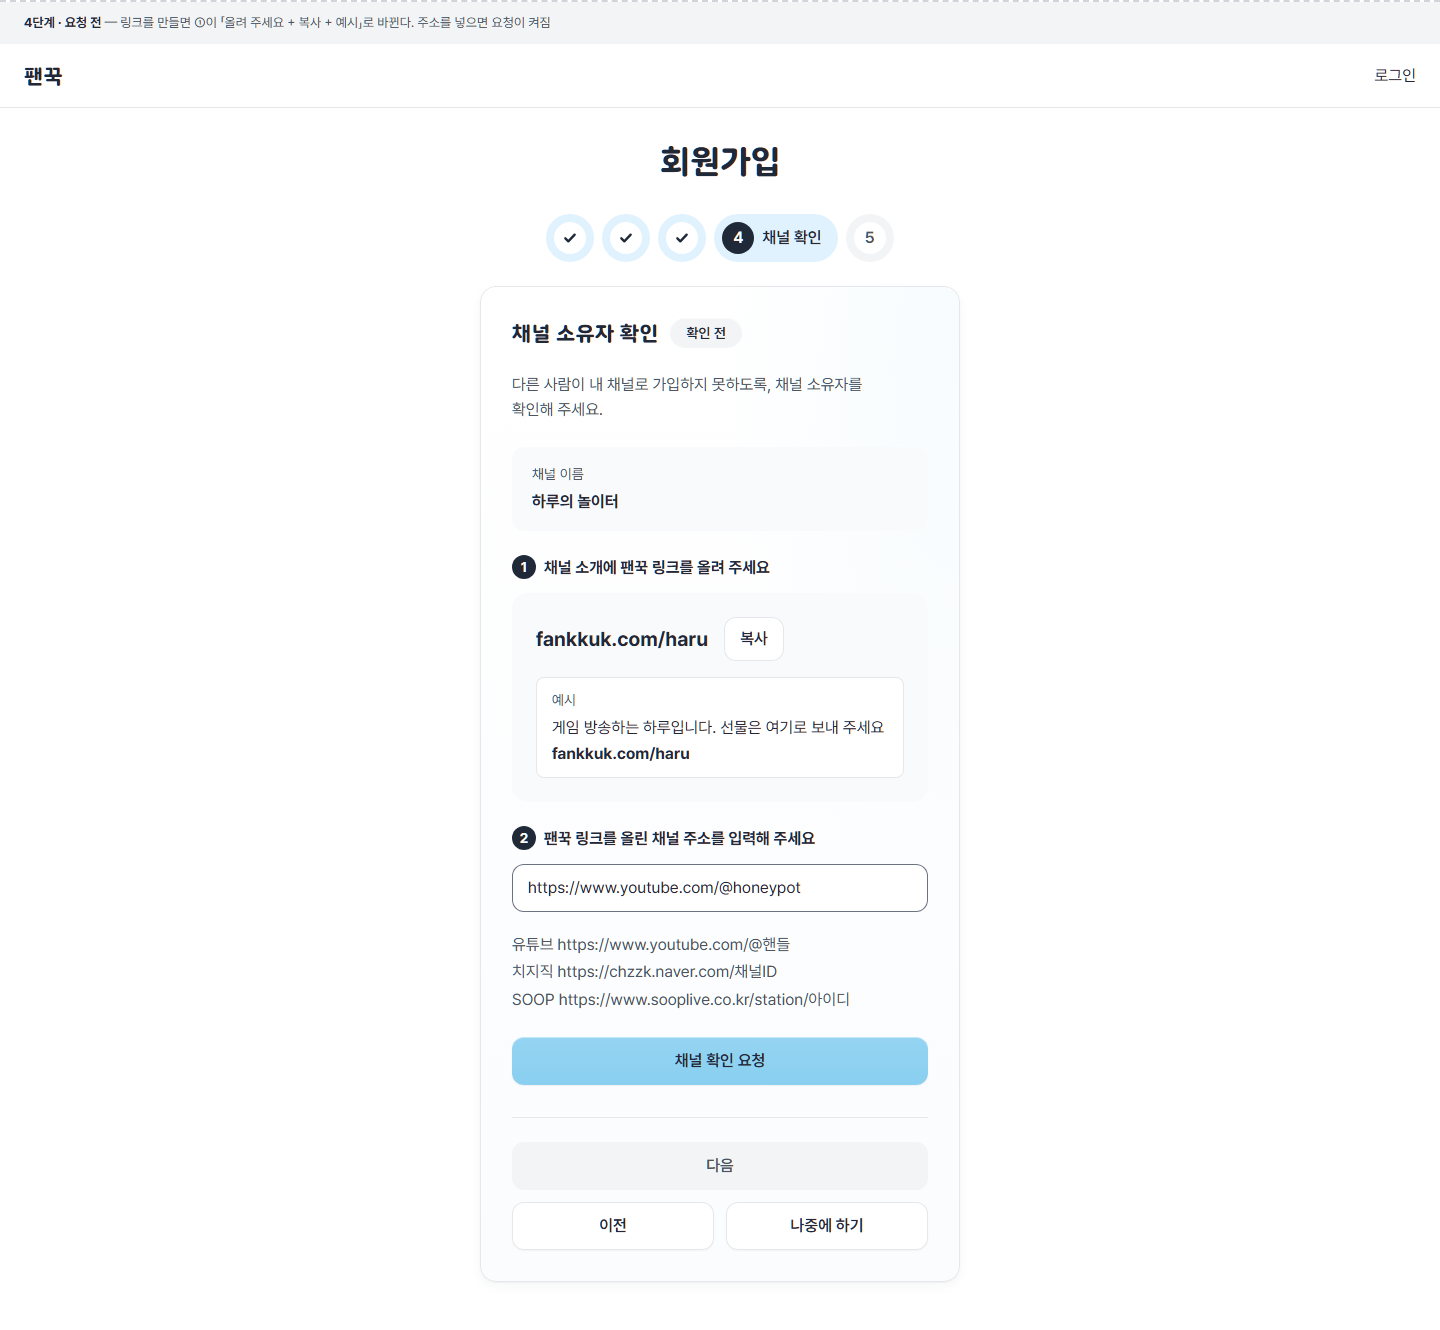
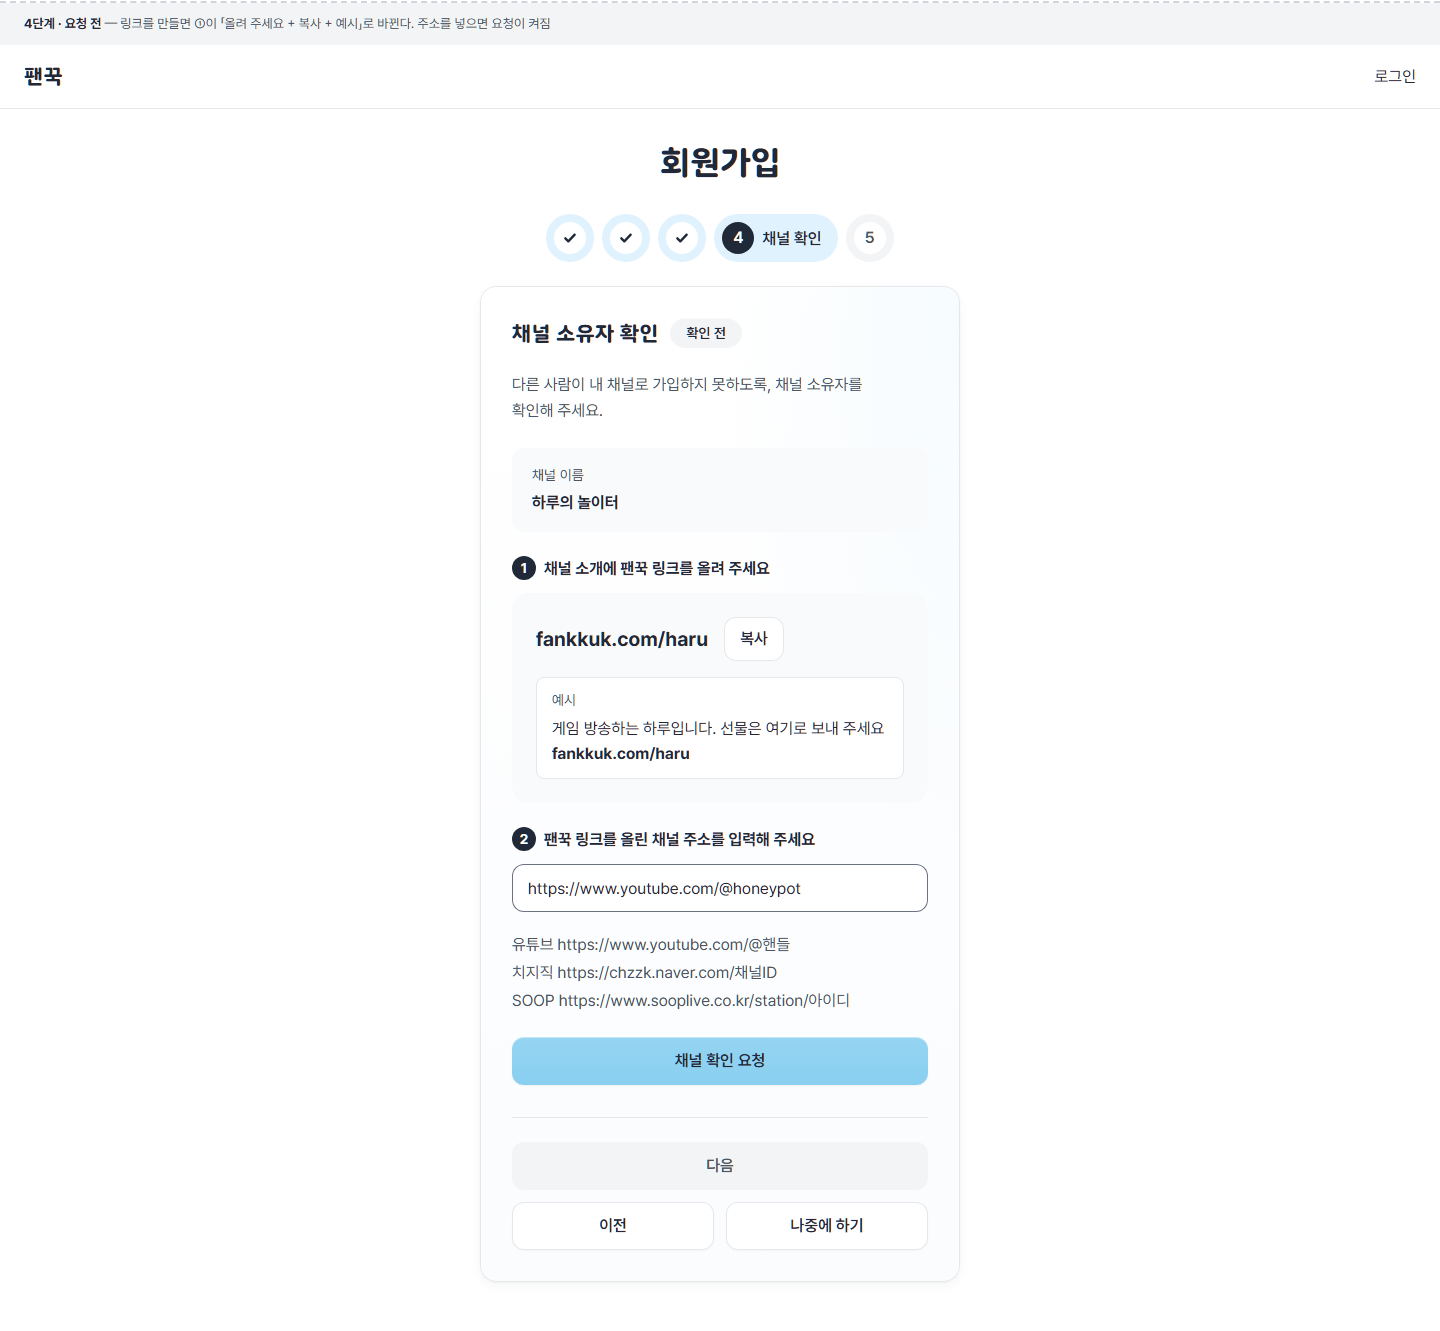
docs(fankkuk): 채널 확인 시안 — 링크 만들기 전에는 ① 하나만

diff --git a/projects/fankkuk/docs/design/mockups/channel-link-verify-20261102/index.html b/projects/fankkuk/docs/design/mockups/channel-link-verify-20261102/index.html
@@ -12,7 +12,7 @@
 <h3 class="t-card" style="margin:32px 0 16px">채널 정보</h3><div class="form">
 <div><label class="label" for="s2-ch">채널 이름</label><p class="v-desc">방송 플랫폼에 표시된 채널 이름을 그대로 입력해 주세요. 채널 확인 시 일치하는지 확인합니다.</p><input class="field" id="s2-ch" placeholder="예: 꿀단지TV" value="하루의 놀이터"></div>
 <p class="hint" style="margin:0">팬덤 이름·태그는 지금 문구를 유지합니다.</p></div></fieldset><div class="su-step-actions"><button class="btn btn--line" type="button">이전</button><button class="btn su-next" type="submit">다음</button></div></form></div></section></main></section>
-<section class="v-state" id="s4-make"><span class="v-label"><b>4단계 · 링크 만들기 전</b> — ① 팬꾹 링크를 여기서 만든다(누르면 「만든 뒤 30일 동안 변경할 수 없습니다」 확인 창). 만들기 전에는 ②·요청이 꺼짐</span><div class="v-bar"><b>팬꾹</b><span>로그인</span></div><main><section class="su-page"><div class="container auth su-box"><div class="head"><h1 class="t-title">회원가입</h1></div><nav class="su-steps-wrap" aria-label="가입 단계"><ol class="su-steps su-four"><li><span class="su-st is-done"><span class="su-dot" aria-hidden="true"><svg width="16" height="16" viewBox="0 0 24 24" aria-hidden="true"><path d="m5 12.5 4.5 4.5L19 7" fill="none" stroke="currentColor" stroke-width="3.5" stroke-linecap="round" stroke-linejoin="round"/></svg></span><span class="su-lbl">유형 선택</span></span></li><li><span class="su-st is-done"><span class="su-dot" aria-hidden="true"><svg width="16" height="16" viewBox="0 0 24 24" aria-hidden="true"><path d="m5 12.5 4.5 4.5L19 7" fill="none" stroke="currentColor" stroke-width="3.5" stroke-linecap="round" stroke-linejoin="round"/></svg></span><span class="su-lbl">정보 입력</span></span></li><li><span class="su-st is-done"><span class="su-dot" aria-hidden="true"><svg width="16" height="16" viewBox="0 0 24 24" aria-hidden="true"><path d="m5 12.5 4.5 4.5L19 7" fill="none" stroke="currentColor" stroke-width="3.5" stroke-linecap="round" stroke-linejoin="round"/></svg></span><span class="su-lbl">휴대폰 확인</span></span></li><li><span class="su-st" aria-current="step"><span class="su-dot" aria-hidden="true">4</span><span class="su-lbl">채널 확인</span></span></li><li><span class="su-st"><span class="su-dot" aria-hidden="true">5</span><span class="su-lbl">승인 서명</span></span></li></ol></nav><form class="card" onsubmit="return false"><fieldset class="su-step"><legend class="sr-only">채널 소유자 확인</legend><div class="vp-head"><h2 class="t-card">채널 소유자 확인</h2><span class="tag ">확인 전</span></div><p class="sub su-lead">다른 사람이 내 채널로 가입하지 못하도록, 채널 소유자를 확인해 주세요.</p><div class="vp-kv v-name"><span class="k">채널 이름</span><strong>하루의 놀이터</strong></div><div class="v-step"><label class="vp-label" for="lk"><span class="v-no">1</span>팬꾹 링크를 만들어 주세요</label><p class="v-desc">외부에서 크리에이터님의 팬꾹으로 안내할 때 사용할 주소입니다.</p><div class="vp-handle"><span class="pre">fankkuk.com/</span><input class="field" id="lk" placeholder="haru"><button class="btn btn--sm" type="button">만들기</button></div><p class="hint">로그인 아이디와 다르게 정해 주세요. 만든 뒤 30일 동안은 변경할 수 없습니다.</p></div><div class="v-step"><label class="vp-label" for="a1"><span class="v-no">2</span>팬꾹 링크를 올린 채널 주소를 입력해 주세요</label><input class="field" id="a1" inputmode="url" placeholder="https://www.youtube.com/@핸들" value="" disabled><ul class="vp-examples"><li>유튜브 <code>https://www.youtube.com/@핸들</code></li><li>치지직 <code>https://chzzk.naver.com/채널ID</code></li><li>SOOP <code>https://www.sooplive.co.kr/station/아이디</code></li></ul></div><div class="vp-steps"><button class="btn" type="button" aria-disabled="true">채널 확인 요청</button></div></fieldset><div class="v-kakao-actions v-three"><button class="btn btn--line" type="button">이전</button><button class="btn btn--line" type="button">나중에 하기</button><button class="btn su-next v-main" type="submit" aria-disabled="true">다음</button></div></form></div></section></main></section>
+<section class="v-state" id="s4-make"><span class="v-label"><b>4단계 · 링크 만들기 전</b> — ① 팬꾹 링크를 여기서 만든다(누르면 「만든 뒤 30일 동안 변경할 수 없습니다」 확인 창). 링크를 만들기 전에는 ① 하나만 보인다. 만들면 「요청 전」 화면처럼 ①이 올리기 안내로 바뀌고 ②·요청이 나타난다</span><div class="v-bar"><b>팬꾹</b><span>로그인</span></div><main><section class="su-page"><div class="container auth su-box"><div class="head"><h1 class="t-title">회원가입</h1></div><nav class="su-steps-wrap" aria-label="가입 단계"><ol class="su-steps su-four"><li><span class="su-st is-done"><span class="su-dot" aria-hidden="true"><svg width="16" height="16" viewBox="0 0 24 24" aria-hidden="true"><path d="m5 12.5 4.5 4.5L19 7" fill="none" stroke="currentColor" stroke-width="3.5" stroke-linecap="round" stroke-linejoin="round"/></svg></span><span class="su-lbl">유형 선택</span></span></li><li><span class="su-st is-done"><span class="su-dot" aria-hidden="true"><svg width="16" height="16" viewBox="0 0 24 24" aria-hidden="true"><path d="m5 12.5 4.5 4.5L19 7" fill="none" stroke="currentColor" stroke-width="3.5" stroke-linecap="round" stroke-linejoin="round"/></svg></span><span class="su-lbl">정보 입력</span></span></li><li><span class="su-st is-done"><span class="su-dot" aria-hidden="true"><svg width="16" height="16" viewBox="0 0 24 24" aria-hidden="true"><path d="m5 12.5 4.5 4.5L19 7" fill="none" stroke="currentColor" stroke-width="3.5" stroke-linecap="round" stroke-linejoin="round"/></svg></span><span class="su-lbl">휴대폰 확인</span></span></li><li><span class="su-st" aria-current="step"><span class="su-dot" aria-hidden="true">4</span><span class="su-lbl">채널 확인</span></span></li><li><span class="su-st"><span class="su-dot" aria-hidden="true">5</span><span class="su-lbl">승인 서명</span></span></li></ol></nav><form class="card" onsubmit="return false"><fieldset class="su-step"><legend class="sr-only">채널 소유자 확인</legend><div class="vp-head"><h2 class="t-card">채널 소유자 확인</h2><span class="tag ">확인 전</span></div><p class="sub su-lead">다른 사람이 내 채널로 가입하지 못하도록, 채널 소유자를 확인해 주세요.</p><div class="vp-kv v-name"><span class="k">채널 이름</span><strong>하루의 놀이터</strong></div><div class="v-step"><label class="vp-label" for="lk"><span class="v-no">1</span>팬꾹 링크를 만들어 주세요</label><p class="v-desc">외부에서 크리에이터님의 팬꾹으로 안내할 때 사용할 주소입니다.</p><div class="vp-handle"><span class="pre">fankkuk.com/</span><input class="field" id="lk" placeholder="haru"><button class="btn btn--sm" type="button">만들기</button></div><p class="hint">로그인 아이디와 다르게 정해 주세요. 만든 뒤 30일 동안은 변경할 수 없습니다.</p></div></fieldset><div class="v-kakao-actions v-three"><button class="btn btn--line" type="button">이전</button><button class="btn btn--line" type="button">나중에 하기</button><button class="btn su-next v-main" type="submit" aria-disabled="true">다음</button></div></form></div></section></main></section>
 <section class="v-state" id="s4-ready"><span class="v-label"><b>4단계 · 요청 전</b> — 링크를 만들면 ①이 「올려 주세요 + 복사 + 예시」로 바뀐다. 주소를 넣으면 요청이 켜짐</span><div class="v-bar"><b>팬꾹</b><span>로그인</span></div><main><section class="su-page"><div class="container auth su-box"><div class="head"><h1 class="t-title">회원가입</h1></div><nav class="su-steps-wrap" aria-label="가입 단계"><ol class="su-steps su-four"><li><span class="su-st is-done"><span class="su-dot" aria-hidden="true"><svg width="16" height="16" viewBox="0 0 24 24" aria-hidden="true"><path d="m5 12.5 4.5 4.5L19 7" fill="none" stroke="currentColor" stroke-width="3.5" stroke-linecap="round" stroke-linejoin="round"/></svg></span><span class="su-lbl">유형 선택</span></span></li><li><span class="su-st is-done"><span class="su-dot" aria-hidden="true"><svg width="16" height="16" viewBox="0 0 24 24" aria-hidden="true"><path d="m5 12.5 4.5 4.5L19 7" fill="none" stroke="currentColor" stroke-width="3.5" stroke-linecap="round" stroke-linejoin="round"/></svg></span><span class="su-lbl">정보 입력</span></span></li><li><span class="su-st is-done"><span class="su-dot" aria-hidden="true"><svg width="16" height="16" viewBox="0 0 24 24" aria-hidden="true"><path d="m5 12.5 4.5 4.5L19 7" fill="none" stroke="currentColor" stroke-width="3.5" stroke-linecap="round" stroke-linejoin="round"/></svg></span><span class="su-lbl">휴대폰 확인</span></span></li><li><span class="su-st" aria-current="step"><span class="su-dot" aria-hidden="true">4</span><span class="su-lbl">채널 확인</span></span></li><li><span class="su-st"><span class="su-dot" aria-hidden="true">5</span><span class="su-lbl">승인 서명</span></span></li></ol></nav><form class="card" onsubmit="return false"><fieldset class="su-step"><legend class="sr-only">채널 소유자 확인</legend><div class="vp-head"><h2 class="t-card">채널 소유자 확인</h2><span class="tag ">확인 전</span></div><p class="sub su-lead">다른 사람이 내 채널로 가입하지 못하도록, 채널 소유자를 확인해 주세요.</p><div class="vp-kv v-name"><span class="k">채널 이름</span><strong>하루의 놀이터</strong></div><div class="v-step"><p class="vp-label"><span class="v-no">1</span>채널 소개에 팬꾹 링크를 올려 주세요</p><div class="vp-box"><div class="vp-code-row"><span class="vp-link">fankkuk.com/haru</span><button class="btn btn--line btn--sm" type="button">복사</button></div><div class="v-example"><span class="k">예시</span><p>게임 방송하는 하루입니다. 선물은 여기로 보내 주세요<br><b>fankkuk.com/haru</b></p></div></div></div><div class="v-step"><label class="vp-label" for="a2"><span class="v-no">2</span>팬꾹 링크를 올린 채널 주소를 입력해 주세요</label><input class="field" id="a2" inputmode="url" placeholder="https://www.youtube.com/@핸들" value="https://www.youtube.com/@honeypot"><ul class="vp-examples"><li>유튜브 <code>https://www.youtube.com/@핸들</code></li><li>치지직 <code>https://chzzk.naver.com/채널ID</code></li><li>SOOP <code>https://www.sooplive.co.kr/station/아이디</code></li></ul></div><div class="vp-steps"><button class="btn" type="button">채널 확인 요청</button></div></fieldset><div class="v-kakao-actions v-three"><button class="btn btn--line" type="button">이전</button><button class="btn btn--line" type="button">나중에 하기</button><button class="btn su-next v-main" type="submit" aria-disabled="true">다음</button></div></form></div></section></main></section>
 <section class="v-state" id="s4-sent"><span class="v-label"><b>4단계 · 요청 완료</b> — 이 단계는 끝. 「이전 | 다음」만, 「다음」 켜짐. 운영자가 확인하면 확인 완료</span><div class="v-bar"><b>팬꾹</b><span>로그인</span></div><main><section class="su-page"><div class="container auth su-box"><div class="head"><h1 class="t-title">회원가입</h1></div><nav class="su-steps-wrap" aria-label="가입 단계"><ol class="su-steps su-four"><li><span class="su-st is-done"><span class="su-dot" aria-hidden="true"><svg width="16" height="16" viewBox="0 0 24 24" aria-hidden="true"><path d="m5 12.5 4.5 4.5L19 7" fill="none" stroke="currentColor" stroke-width="3.5" stroke-linecap="round" stroke-linejoin="round"/></svg></span><span class="su-lbl">유형 선택</span></span></li><li><span class="su-st is-done"><span class="su-dot" aria-hidden="true"><svg width="16" height="16" viewBox="0 0 24 24" aria-hidden="true"><path d="m5 12.5 4.5 4.5L19 7" fill="none" stroke="currentColor" stroke-width="3.5" stroke-linecap="round" stroke-linejoin="round"/></svg></span><span class="su-lbl">정보 입력</span></span></li><li><span class="su-st is-done"><span class="su-dot" aria-hidden="true"><svg width="16" height="16" viewBox="0 0 24 24" aria-hidden="true"><path d="m5 12.5 4.5 4.5L19 7" fill="none" stroke="currentColor" stroke-width="3.5" stroke-linecap="round" stroke-linejoin="round"/></svg></span><span class="su-lbl">휴대폰 확인</span></span></li><li><span class="su-st" aria-current="step"><span class="su-dot" aria-hidden="true">4</span><span class="su-lbl">채널 확인</span></span></li><li><span class="su-st"><span class="su-dot" aria-hidden="true">5</span><span class="su-lbl">승인 서명</span></span></li></ol></nav><form class="card" onsubmit="return false"><fieldset class="su-step"><legend class="sr-only">채널 소유자 확인</legend><div class="vp-head"><h2 class="t-card">채널 소유자 확인</h2><span class="tag tag--warn">확인 대기</span></div><div class="vp-box v-done-box"><p class="vp-label" style="display:flex;align-items:center;gap:6px"><svg width="20" height="20" viewBox="0 0 24 24" aria-hidden="true"><circle cx="12" cy="12" r="10" fill="none" stroke="currentColor" stroke-width="2"/><path d="m7.5 12.5 3 3 6-6.5" fill="none" stroke="currentColor" stroke-width="2.4" stroke-linecap="round" stroke-linejoin="round"/></svg>채널 확인 요청을 보냈습니다</p><p>운영자가 채널을 확인하면 채널 확인이 완료됩니다.</p><div class="vp-kv"><span class="k">채널 이름</span><strong>하루의 놀이터</strong></div><div class="vp-kv"><span class="k">채널 주소</span><strong style="overflow-wrap:anywhere">https://www.youtube.com/@honeypot</strong></div><div class="vp-kv"><span class="k">팬꾹 링크</span><strong>fankkuk.com/haru</strong></div><div><button class="btn btn--text btn--sm" type="button">요청 취소</button></div></div></fieldset><div class="su-step-actions"><button class="btn btn--line" type="button">이전</button><button class="btn su-next" type="submit">다음</button></div></form></div></section></main></section>
 <section class="v-state" id="s4-rejected"><span class="v-label"><b>4단계 · 반려</b> — 사유 한 줄 + 남은 요청 횟수, 아래는 요청 전과 같은 순서</span><div class="v-bar"><b>팬꾹</b><span>로그인</span></div><main><section class="su-page"><div class="container auth su-box"><div class="head"><h1 class="t-title">회원가입</h1></div><nav class="su-steps-wrap" aria-label="가입 단계"><ol class="su-steps su-four"><li><span class="su-st is-done"><span class="su-dot" aria-hidden="true"><svg width="16" height="16" viewBox="0 0 24 24" aria-hidden="true"><path d="m5 12.5 4.5 4.5L19 7" fill="none" stroke="currentColor" stroke-width="3.5" stroke-linecap="round" stroke-linejoin="round"/></svg></span><span class="su-lbl">유형 선택</span></span></li><li><span class="su-st is-done"><span class="su-dot" aria-hidden="true"><svg width="16" height="16" viewBox="0 0 24 24" aria-hidden="true"><path d="m5 12.5 4.5 4.5L19 7" fill="none" stroke="currentColor" stroke-width="3.5" stroke-linecap="round" stroke-linejoin="round"/></svg></span><span class="su-lbl">정보 입력</span></span></li><li><span class="su-st is-done"><span class="su-dot" aria-hidden="true"><svg width="16" height="16" viewBox="0 0 24 24" aria-hidden="true"><path d="m5 12.5 4.5 4.5L19 7" fill="none" stroke="currentColor" stroke-width="3.5" stroke-linecap="round" stroke-linejoin="round"/></svg></span><span class="su-lbl">휴대폰 확인</span></span></li><li><span class="su-st" aria-current="step"><span class="su-dot" aria-hidden="true">4</span><span class="su-lbl">채널 확인</span></span></li><li><span class="su-st"><span class="su-dot" aria-hidden="true">5</span><span class="su-lbl">승인 서명</span></span></li></ol></nav><form class="card" onsubmit="return false"><fieldset class="su-step"><legend class="sr-only">채널 소유자 확인</legend><div class="vp-head"><h2 class="t-card">채널 소유자 확인</h2><span class="tag tag--danger">반려</span></div><div class="vp-box" style="margin-bottom:24px"><p class="vp-rej"><svg width="20" height="20" viewBox="0 0 24 24" aria-hidden="true"><circle cx="12" cy="12" r="10" fill="none" stroke="currentColor" stroke-width="2"/><path d="M12 7v6M12 16.5v.5" stroke="currentColor" stroke-width="2.4" stroke-linecap="round"/></svg>팬꾹 링크를 찾지 못함</p><p class="sub">남은 요청 횟수: 2회</p></div><div class="vp-kv v-name"><span class="k">채널 이름</span><strong>하루의 놀이터</strong></div><div class="v-step"><p class="vp-label"><span class="v-no">1</span>채널 소개에 팬꾹 링크를 올려 주세요</p><div class="vp-box"><div class="vp-code-row"><span class="vp-link">fankkuk.com/haru</span><button class="btn btn--line btn--sm" type="button">복사</button></div><div class="v-example"><span class="k">예시</span><p>게임 방송하는 하루입니다. 선물은 여기로 보내 주세요<br><b>fankkuk.com/haru</b></p></div></div></div><div class="v-step"><label class="vp-label" for="a4"><span class="v-no">2</span>팬꾹 링크를 올린 채널 주소를 입력해 주세요</label><input class="field" id="a4" inputmode="url" placeholder="https://www.youtube.com/@핸들" value="https://www.youtube.com/@honeypot"><ul class="vp-examples"><li>유튜브 <code>https://www.youtube.com/@핸들</code></li><li>치지직 <code>https://chzzk.naver.com/채널ID</code></li><li>SOOP <code>https://www.sooplive.co.kr/station/아이디</code></li></ul></div><div class="vp-steps"><button class="btn" type="button">다시 채널 확인 요청</button></div></fieldset><div class="v-kakao-actions v-three"><button class="btn btn--line" type="button">이전</button><button class="btn btn--line" type="button">나중에 하기</button><button class="btn su-next v-main" type="submit" aria-disabled="true">다음</button></div></form></div></section></main></section>
